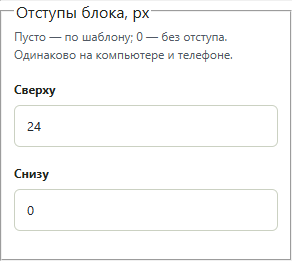
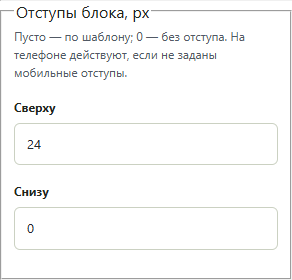
Add HASL section, responsive spacing and text links with section anchors

diff --git a/site-builder/builder.js b/site-builder/builder.js
@@ -4,9 +4,9 @@
   let projectId=null,revision=0,dirty=false,blocked=false,pending=null,epoch=0,selected=null,user=null,accountStamp='';
   accountStamp=document.querySelector('meta[name="editor-account-context"]')?.content||'';
   let pages=[],users=[],loadTicket=0,switching=false;
-  const labels=['Первый экран и акции','Витрина товаров','Подбор по параметрам','Коллекции','Доставка и преимущества','Отзывы','Блог','Сообщество','Вопросы и ответы','Выбор размера'];
+  const labels=['Первый экран и акции','Витрина товаров','Подбор по параметрам','Коллекции','Доставка и преимущества','Отзывы','Блог','Сообщество','Вопросы и ответы','Выбор размера','ХАСЛ'];
   const visibility={all:'На всех устройствах',desktop:'Только на компьютере',phone:'Только на телефоне',hidden:'Скрыт везде'};
-  const layout=()=>state.layout||(state.layout=meta.sections.filter(s=>!s.optional).map((s,i)=>({id:'block-'+i,source:s.id,name:labels[i]||s.name,visibility:'all'})));
+  const layout=()=>{if(!state.layout){state.layout=meta.sections.filter(s=>!s.optional).map((s,i)=>({id:'block-'+i,source:s.id,name:labels[Number(s.id.slice(1))]||s.name,visibility:'all'}));state.haslSectionVersion=1;}R.upgradeLayout(state);return state.layout;};
   const current=()=>layout().find(b=>b.id===selected);
   const id=()=>crypto.randomUUID();
   async function request(path,data){
@@ -60,13 +60,15 @@
     return `<h2>Блоки страницы</h2><p class="intro">Вставляйте секции из эталона, меняйте порядок и настройте каждую отдельно.</p><div class="site-insert" role="toolbar" aria-label="Вставка блоков">${meta.sections.map((s,i)=>`<button data-insert-section="${s.id}">${E(labels[i]||s.name)}</button>`).join('')}</div><ol class="site-structure" aria-label="Структура страницы">${items.map((b,i)=>`<li draggable="true" data-structure-id="${E(b.id)}" class="${b.id===selected?'selected':''} ${b.visibility==='hidden'?'is-hidden':''}"><span class="site-drag" aria-hidden="true">⠿</span><button type="button" data-select-block="${E(b.id)}" class="site-structure-name">${E(b.name)}</button><button type="button" data-toggle-block="${E(b.id)}" aria-label="${b.visibility==='hidden'?'Показать':'Скрыть'} ${E(b.name)}" aria-pressed="${b.visibility==='hidden'}" title="${b.visibility==='hidden'?'Вернуть в экспорт':'Скрыть и исключить из экспорта'}"><svg width="18" height="18" viewBox="0 0 24 24" fill="none" stroke="currentColor" stroke-width="1.7" aria-hidden="true"><path d="M2 12s4-7 10-7 10 7 10 7-4 7-10 7S2 12 2 12Z"/><circle cx="12" cy="12" r="3"/>${b.visibility==='hidden'?'<path d="m3 3 18 18"/>':''}</svg></button><button type="button" data-delete-block="${E(b.id)}" class="danger" aria-label="Удалить блок: ${E(b.name)}" title="Удалить блок"><svg width="18" height="18" viewBox="0 0 24 24" fill="none" stroke="currentColor" stroke-width="1.7" aria-hidden="true"><path d="M3 6h18M9 6V3h6v3M5 6l1 15h12l1-15M10 10v7M14 10v7"/></svg></button><button type="button" data-order-block="${E(b.id)}" data-direction="-1" aria-label="Выше: ${E(b.name)}" ${i===0?'disabled':''}>↑</button><button type="button" data-order-block="${E(b.id)}" data-direction="1" aria-label="Ниже: ${E(b.name)}" ${i===items.length-1?'disabled':''}>↓</button></li>`).join('')}</ol><p class="muted">Перетащите строку или используйте стрелки. Перечёркнутый глаз исключает блок из экспорта.</p><label class="field"><span>Блок на странице</span><select id="site-block-select">${items.map(b=>`<option value="${b.id}" ${b.id===selected?'selected':''}>${E(b.name)} · ${E(visibility[b.visibility]||visibility.all)}</option>`).join('')}</select></label>${!item?'<p>Страница пустая. Выберите блок в панели вставки.</p>':`
     <div class="row wrap"><button data-block-up ${items.indexOf(item)===0?'disabled':''}>Выше</button><button data-block-down ${items.indexOf(item)===items.length-1?'disabled':''}>Ниже</button><button data-block-copy>Дублировать</button><button data-block-delete class="danger">Удалить</button><button data-block-show>Показать блок</button></div>
     ${field('Название блока в конструкторе',item.name,'id="site-block-name" maxlength="120"','text')}
+    <label class="field"><span>Якорь секции (без #)</span><input id="site-block-anchor" value="${E(R.anchorFor(item))}" pattern="[a-zA-Z][a-zA-Z0-9_-]{0,79}" maxlength="80"><small>Для ссылки: #${E(R.anchorFor(item))}</small></label>
     <label class="field"><span>Видимость блока</span><select id="site-block-visibility">${Object.entries(visibility).map(([k,v])=>`<option value="${k}" ${item.visibility===k?'selected':''}>${v}</option>`).join('')}</select></label>
-    <details class="text-section"><summary>Оформление блока</summary>${field('Внутренние отступы сверху и снизу, px',item.spacing??32,'id="site-block-spacing" min="0" max="160"','number')}${field('Цвет фона',item.background||'#ffffff','id="site-block-background"','color')}${field('Цвет текста',item.color||'#202020','id="site-block-color"','color')}<button data-reset-appearance>Вернуть оформление эталона</button></details>
+    <details class="text-section"><summary>Оформление блока</summary>${field('Цвет фона',item.background||'#ffffff','id="site-block-background"','color')}${field('Цвет текста',item.color||'#202020','id="site-block-color"','color')}<button data-reset-appearance>Вернуть оформление эталона</button></details>
     ${productsSource?`<details class="text-section"><summary>Товары этого блока</summary>${field('Артикулы для этого экземпляра',item.products?.codes||'','id="instance-codes"')}<button data-instance-products>Применить товары к блоку</button><p class="muted">${item.source==='s0'?'Не более двух товаров.':'До 250 товаров.'} Фото или видео можно выбрать ниже после применения.</p>${(item.products?.missing||[]).length?`<p class="notice error">Не найдены: ${E(item.products.missing.join(', '))}</p>`:''}${(item.products?.resolved||[]).map(code=>{const p=products[code];return p?`<label class="field"><span>${E(p.name)}</span><select data-instance-photo="${E(code)}">${[...p.photos,...(p.videos||[])].map((url,i)=>`<option value="${E(url)}" ${item.products.photos?.[code]===url?'selected':''}>${i<p.photos.length?'Фото '+(i+1):'Видео '+(i-p.photos.length+1)}</option>`).join('')}</select></label>`:'';}).join('')}</details>`:''}
     ${['s5','s6'].includes(item.source)?field('Количество материалов в этом блоке',item.limit||6,'id="site-block-limit" min="1" max="30"','number'):''}
     ${item.source==='s1'?`<fieldset class="text-section"><legend>Сезонные плашки над товарами</legend><p class="muted">Выберите нужные фильтры или снимите все галочки.</p>${Object.entries({winter:'Зима',demi:'Демисезон',summer:'Лето'}).map(([key,label])=>`<label class="checkline"><input type="checkbox" data-season-tab="${key}" ${(item.seasons||[]).includes(key)?'checked':''}>${label}</label>`).join('')}</fieldset>`:''}
     ${item.source==='s8'?faqSettings(item):''}
-    <fieldset class="site-spacing"><legend>Отступы блока, px</legend><p class="muted">Пусто — по шаблону; 0 — без отступа. Одинаково на компьютере и телефоне.</p>${['top','bottom'].map(side=>`<label class="field"><span>${side==='top'?'Сверху':'Снизу'}</span><input type="number" min="0" max="400" step="1" data-block-spacing="${side}" placeholder="По шаблону" value="${item.spacing?.[side]??''}"></label>`).join('')}</fieldset>
+    <fieldset class="site-spacing"><legend>Отступы блока, px</legend><p class="muted">Пусто — по шаблону; 0 — без отступа. На телефоне действуют, если не заданы мобильные отступы.</p>${['top','bottom'].map(side=>`<label class="field"><span>${side==='top'?'Сверху':'Снизу'}</span><input type="number" min="0" max="400" step="1" data-block-spacing="${side}" placeholder="По шаблону" value="${item.spacing?.[side]??''}"></label>`).join('')}</fieldset>
+    <fieldset class="site-spacing-phone"><legend>Отступы на телефоне, px</legend><p class="muted">Пусто — основной отступ. 0 — убрать только на телефоне (ширина до 700 px).</p>${['top','bottom'].map(side=>`<label class="field"><span>${side==='top'?'Сверху на телефоне':'Снизу на телефоне'}</span><input type="number" min="0" max="400" step="1" data-block-spacing="${side}" data-spacing-phone="true" placeholder="Как основной" value="${item.spacingMobile?.[side]??''}"></label>`).join('')}</fieldset>
     <details class="text-section" open><summary>Тексты, ссылки и изображения</summary>${settingsFields(item)||'<p>Материалы этого блока настраиваются в разделе «Отзывы» или «Блог».</p>'}</details>`}`;
   }
   function renderAccess(){
@@ -75,8 +77,38 @@
     return '<h2>Доступ редакторов</h2><p class="intro">Администраторы и модераторы имеют доступ всегда. Разрешение редактора можно выдать или отозвать здесь. Блокировка аккаунта имеет приоритет.</p><div id="site-access-list" role="status">Загрузка…</div>';
   }
   let editingFrame=null,mirrorTimer;
+  function readTextLinks(node){
+    const links=[];for(const a of node.querySelectorAll('a[href]')){a.classList.add('site-inline-link');const r=node.ownerDocument.createRange();r.selectNodeContents(node);r.setEndBefore(a);const start=r.toString().length;links.push({start,end:start+a.textContent.length,href:a.getAttribute('href')});}return {text:node.textContent,links};
+  }
+  let linkSelection=null;
+  const linkButton=document.createElement('button');linkButton.type='button';linkButton.id='site-text-link';linkButton.textContent='Ссылка';linkButton.title='Выделите текст в превью · Ctrl+K';document.querySelector('.preview-toolbar').append(linkButton);
+  const linkDialog=document.createElement('dialog');linkDialog.id='site-link-dialog';linkDialog.innerHTML='<form><div class="dialog-head"><h2>Ссылка в тексте</h2><button type="button" data-link-close>Закрыть</button></div><label class="field">Адрес или якорь<input name="href" required placeholder="https://example.com или #section"></label><label class="field">Секция страницы<select name="section"><option value="">Выбрать секцию…</option></select></label><p data-link-error role="status"></p><button type="submit">Применить</button> <button type="button" data-link-remove>Убрать ссылку</button></form>';document.body.append(linkDialog);
+  function openTextLink(){
+    const saved=linkSelection;if(!saved||saved.epoch!==epoch||!saved.node.isConnected||saved.node.textContent!==saved.text){notify('Выделите текст внутри одного поля в превью.');return;}
+    if(saved.node.closest('button')){notify('Внутри кнопки ссылка недоступна. Выберите обычный текст.');return;}
+    const select=linkDialog.querySelector('[name=section]');select.innerHTML='<option value="">Выбрать секцию…</option>'+layout().filter(b=>b.visibility!=='hidden').map(b=>'<option value="#'+E(R.anchorFor(b))+'">'+E(b.name)+'</option>').join('');
+    const n=saved.range.startContainer.parentElement,a=n?.closest('a');linkDialog.querySelector('[name=href]').value=a?.getAttribute('href')||'';linkDialog.querySelector('[data-link-error]').textContent='';linkDialog.showModal();linkDialog.querySelector('[name=href]').focus();
+  }
+  linkButton.addEventListener('mousedown',e=>e.preventDefault());linkButton.onclick=openTextLink;
+  linkDialog.querySelector('[data-link-close]').onclick=()=>linkDialog.close();
+  linkDialog.querySelector('[name=section]').onchange=e=>{if(e.target.value)linkDialog.querySelector('[name=href]').value=e.target.value;};
+  function insertTextLink(remove=false){
+    const saved=linkSelection,error=linkDialog.querySelector('[data-link-error]');if(!saved||saved.epoch!==epoch||!saved.node.isConnected||saved.node.textContent!==saved.text){error.textContent='Текст изменился. Закройте окно и выделите его снова.';return;}
+    const href=linkDialog.querySelector('[name=href]').value.trim();if(!remove&&!/^(https?:\/\/[^\s]+|#[a-zA-Z][\w-]*)$/.test(href)){error.textContent='Укажите http(s)-адрес или #якорь.';return;}
+    if(!remove&&href.startsWith('#')&&!layout().some(b=>R.anchorFor(b)===href.slice(1)&&b.visibility!=='hidden')){error.textContent='Такой видимый якорь секции не найден.';return;}
+    const node=saved.node,doc=node.ownerDocument,outer=node.closest('a[data-editor-link]');
+    node.focus();const selection=doc.getSelection();selection.removeAllRanges();selection.addRange(saved.range);
+    if(outer){const item=layout().find(b=>b.id===node.closest('[data-site-block]').dataset.siteBlock);(item.links||={})[outer.dataset.editorLink]=remove?'':href;outer.setAttribute('href',remove?'':href);changed();}
+    else{node.contentEditable='true';try{doc.execCommand(remove?'unlink':'createLink',false,remove?null:href);}finally{node.contentEditable='plaintext-only';}node.dispatchEvent(new Event('input',{bubbles:true}));}
+    linkDialog.close();linkSelection=null;
+  }
+  linkDialog.querySelector('form').onsubmit=e=>{e.preventDefault();insertTextLink();};linkDialog.querySelector('[data-link-remove]').onclick=()=>insertTextLink(true);
+
   function bindPreview(frame){
     const doc=frame.contentDocument;
+    doc.addEventListener('selectionchange',()=>{const selection=doc.getSelection();if(!selection?.rangeCount||selection.isCollapsed)return;const range=selection.getRangeAt(0),node=(range.startContainer.nodeType===1?range.startContainer:range.startContainer.parentElement).closest('[data-editor-text]');if(node&&node.contains(range.endContainer))linkSelection={node,range:range.cloneRange(),text:node.textContent,epoch};else linkSelection=null;});
+    doc.addEventListener('keydown',e=>{if((e.ctrlKey||e.metaKey)&&e.key.toLowerCase()==='k'){e.preventDefault();openTextLink();}});
+
     const style=doc.createElement('style');style.textContent='[data-editor-text]{cursor:text}[data-editor-text]:hover{outline:1px dashed #527000;outline-offset:3px}[data-editor-text]:focus{outline:2px solid #527000;outline-offset:3px;min-width:1ch}';doc.head.append(style);
     doc.querySelectorAll('[data-editor-text]').forEach(node=>{
       node.contentEditable='plaintext-only';node.setAttribute('role','textbox');node.setAttribute('aria-label','Редактировать текст: '+node.textContent.trim().slice(0,65));node.spellcheck=true;
@@ -85,14 +117,15 @@
       node.addEventListener('paste',e=>{e.preventDefault();const value=e.clipboardData.getData('text/plain');doc.execCommand('insertText',false,value);});
       node.addEventListener('input',()=>{
         const item=layout().find(b=>b.id===node.closest('[data-site-block]')?.dataset.siteBlock);if(!item)return;
-        const key=node.dataset.editorText,value=node.innerText;
+        const key=node.dataset.editorText,value=node.textContent;
+        (item.inlineLinks||={})[key]=readTextLinks(node);
         const faq=item.faq?.find(f=>key==='faq-'+f.id+'-question'||key==='faq-'+f.id+'-answer');
         if(faq){const field=key.endsWith('-question')?'question':'answer';faq[field]=value;const input=document.querySelector(`[data-faq-index="${item.faq.indexOf(faq)}"][data-faq-field="${field}"]`);if(input&&selected===item.id)input.value=value;}else (item.texts||={})[key]=value;
         markChanged();
         const input=document.querySelector('[data-instance-kind="text"][data-field-id="'+key+'"]');if(input&&selected===item.id)input.value=value;
         clearTimeout(mirrorTimer);mirrorTimer=setTimeout(()=>{
           const other=document.getElementById(frame.id==='desktop'?'phone':'desktop'),otherDoc=other.contentDocument;
-          const target=otherDoc?.querySelector('[data-site-block="'+item.id+'"] [data-editor-text="'+key+'"]');if(target)target.textContent=value;
+          const target=otherDoc?.querySelector('[data-site-block="'+item.id+'"] [data-editor-text="'+key+'"]');if(target){target.textContent=value;R.applyTextLinks(target,item.inlineLinks?.[key]);}
         },120);
       });
       node.addEventListener('blur',()=>{if(editingFrame===frame)editingFrame=null;});
@@ -130,7 +163,7 @@
       if(button.hasAttribute('data-copy-page'))return await saveCopy();
       if(button.hasAttribute('data-save-page'))return await save();
       if(button.dataset.openPage)return await openProject(button.dataset.openPage);
-      if(button.dataset.insertSection){if(layout().length>=60)throw new Error('Максимум 60 блоков на странице.');const source=button.dataset.insertSection;const item={id:id(),source,name:labels[Number(source.slice(1))],visibility:'all'};layout().splice(selected?layout().findIndex(b=>b.id===selected)+1:layout().length,0,item);selected=item.id;changed();render();return;}
+      if(button.dataset.insertSection){if(layout().length>=120)throw new Error('Максимум 120 блоков на странице.');const source=button.dataset.insertSection;const item={id:id(),source,name:labels[Number(source.slice(1))],visibility:'all'};layout().splice(selected?layout().findIndex(b=>b.id===selected)+1:layout().length,0,item);selected=item.id;changed();render();return;}
       if(button.dataset.selectBlock){selected=button.dataset.selectBlock;render();return;}
       if(button.dataset.deleteBlock){const i=layout().findIndex(b=>b.id===button.dataset.deleteBlock);if(i<0)return;const [removed]=state.layout.splice(i,1);if(selected===removed.id)selected=state.layout[Math.min(i,state.layout.length-1)]?.id;changed();render();return;}
       if(button.dataset.toggleBlock){const b=layout().find(x=>x.id===button.dataset.toggleBlock);if(b){b.visibility=b.visibility==='hidden'?'all':'hidden';changed();render();}return;}
@@ -145,9 +178,9 @@
       }
       if(button.hasAttribute('data-block-show')){jump('[data-site-block="'+item.id+'"]');return;}
       if(button.hasAttribute('data-block-delete')){state.layout=layout().filter(b=>b!==item);selected=state.layout[0]?.id;}
-      else if(button.hasAttribute('data-block-copy')){if(layout().length>=60)throw new Error('Максимум 60 блоков.');const copy=structuredClone(item);copy.id=id();copy.name+=' — копия';layout().splice(layout().indexOf(item)+1,0,copy);selected=copy.id;}
+      else if(button.hasAttribute('data-block-copy')){if(layout().length>=120)throw new Error('Максимум 120 блоков.');const copy=structuredClone(item);copy.id=id();copy.name+=' — копия';layout().splice(layout().indexOf(item)+1,0,copy);selected=copy.id;}
       else if(button.hasAttribute('data-block-up')||button.hasAttribute('data-block-down')){const i=layout().indexOf(item),j=i+(button.hasAttribute('data-block-up')?-1:1);if(j>=0&&j<layout().length)[state.layout[i],state.layout[j]]=[state.layout[j],state.layout[i]];}
-      else if(button.hasAttribute('data-reset-appearance')){delete item.color;delete item.background;delete item.spacing;}
+      else if(button.hasAttribute('data-reset-appearance')){delete item.color;delete item.background;delete item.spacing;delete item.spacingMobile;}
       else if(button.hasAttribute('data-instance-products')){
         const codes=$('#instance-codes').value,parts=[...new Set(codes.split(/[,;\s]+/).filter(Boolean))];if(parts.length>(item.source==='s0'?2:250))throw new Error('Слишком много артикулов для этого блока.');
         const ticket=epoch;button.disabled=true;const result=await api('products?codes='+encodeURIComponent(parts.join(',')));if(ticket!==epoch||!layout().includes(item))return;result.products.forEach(p=>products[p.code]=p);item.products={codes:parts.join(', '),resolved:result.products.map(p=>p.code),missing:result.missing,photos:item.products?.photos||{}};
@@ -165,7 +198,6 @@
     if(el.dataset.faqField){item.faq||=R.faqDefaults(state,item);const f=item.faq[Number(el.dataset.faqIndex)];if(!f)return;f[el.dataset.faqField]=el.value;}
     else if(el.dataset.instanceKind){(item[el.dataset.instanceKind+'s']||={})[el.dataset.fieldId]=el.value;}
     else if(el.id==='site-block-name')item.name=el.value;
-    else if(el.id==='site-block-spacing')item.spacing=Math.max(0,Math.min(160,Number(el.value)||0));
     else if(el.id==='site-block-limit')item.limit=Math.max(1,Math.min(30,Number(el.value)||1));
     else if(el.id==='site-block-background')item.background=el.value;
     else if(el.id==='site-block-color')item.color=el.value;
@@ -176,7 +208,8 @@
     const el=event.target;try{
       if(el.id==='site-block-select'){selected=el.value;render();}
       if(el.dataset.seasonTab){const item=current();if(!item)return;const choices=new Set(item.seasons||[]);if(el.checked)choices.add(el.dataset.seasonTab);else choices.delete(el.dataset.seasonTab);item.seasons=[...choices];changed();return;}
-      if(el.dataset.blockSpacing){if(!el.checkValidity()){el.reportValidity();return;}const item=current();item.spacing||={};if(el.value==='')delete item.spacing[el.dataset.blockSpacing];else item.spacing[el.dataset.blockSpacing]=Number(el.value);changed();}
+      if(el.dataset.blockSpacing){if(!el.checkValidity()){el.reportValidity();return;}const item=current(),key=el.dataset.spacingPhone?'spacingMobile':'spacing';item[key]||={};if(el.value==='')delete item[key][el.dataset.blockSpacing];else item[key][el.dataset.blockSpacing]=Number(el.value);changed();}
+      if(el.id==='site-block-anchor'){const item=current(),old=R.anchorFor(item),value=el.value.trim();if(!/^[a-zA-Z][a-zA-Z0-9_-]{0,79}$/.test(value)||layout().some(b=>b!==item&&R.anchorFor(b)===value)){el.value=old;notify('Якорь: уникальное имя латиницей, цифры, дефис или подчёркивание.');return;}item.anchor=value;const replace=o=>{if(!o||typeof o!=='object')return;for(const key of Object.keys(o)){if(o[key]==='#'+old)o[key]='#'+value;else if(typeof o[key]==='object')replace(o[key]);}};replace(state.links);for(const b of layout()){replace(b.links);for(const r of Object.values(b.inlineLinks||{}))for(const l of r.links||[])if(l.href==='#'+old)l.href='#'+value;for(const f of b.faq||[])if(f.url==='#'+old)f.url='#'+value;}changed();render();}
       if(el.id==='site-block-visibility'){current().visibility=el.value;changed();}
       if(el.dataset.instancePhoto){current().products.photos[el.dataset.instancePhoto]=el.value;changed();}
       if(el.dataset.siteAccess){el.disabled=true;try{await request('site-builder/access/'+el.dataset.siteAccess,{allowed:el.checked});notify('Право доступа обновлено.');}catch(error){el.checked=!el.checked;throw error;}finally{el.disabled=false;}}

diff --git a/site-builder/renderer.js b/site-builder/renderer.js
@@ -55,12 +55,36 @@ window.HaslRenderer = (() => {
     doc.querySelectorAll('.faq-q > span:not([data-editor-text])').forEach(s=>{s.classList.add('faq-sign');s.setAttribute('aria-hidden','true');});
     doc.querySelector('.finder-form')?.insertAdjacentHTML('afterbegin','<div class="field gender-field"><label for="hasl-embed-fGender">Пол</label><select class="finder-gender" id="hasl-embed-fGender"><option value="">Любой</option><option value="zhenskie">Женский</option><option value="muzhskie">Мужской</option></select></div>');
     doc.querySelectorAll('script').forEach(s=>s.remove());
+    // Split after indexing text so existing saved text IDs stay stable.
+    const closing=doc.querySelector('.closing-word');
+    if(closing){const sector=doc.createElement('section');sector.className='section hasl-brand-section';sector.dataset.editorSection='s10';closing.removeAttribute('aria-hidden');closing.style.margin='0';sector.append(closing);doc.querySelector('main').append(sector);sections.push({id:'s10',optional:false,name:'ХАСЛ'});for(const f of fields)if(closing.querySelector('[data-editor-text="'+f.id+'"]'))f.section='s10';}
     template = '<!doctype html>\n'+doc.documentElement.outerHTML;
     return {fields, links, pictures, sections, blocks: {
       catalog: [...doc.querySelectorAll('.product-track .product')].map(x => x.dataset.feedId).join(', '),
       collections: [...doc.querySelectorAll('.collection-card')].map(x => x.dataset.feedId).join(', '),
       promos: ''
     }};
+  }
+  const anchorFor=item=>item.anchor||'section-'+item.id;
+  function applyTextLinks(node,record){
+    if(!record || record.text!==node.textContent || !Array.isArray(record.links) || node.closest('a,button'))return;
+    const text=node.textContent,doc=node.ownerDocument,fragment=doc.createDocumentFragment();let cursor=0;
+    for(const link of record.links){if(!Number.isInteger(link.start)||!Number.isInteger(link.end)||link.start<cursor||link.end<=link.start||link.end>text.length)continue;
+      const href=/^#[a-zA-Z][\w-]*$/.test(link.href)?link.href:safe(link.href);if(!href)continue;
+      fragment.append(doc.createTextNode(text.slice(cursor,link.start)));const a=doc.createElement('a');a.href=href;a.className='site-inline-link';a.textContent=text.slice(link.start,link.end);fragment.append(a);cursor=link.end;
+    }fragment.append(doc.createTextNode(text.slice(cursor)));node.replaceChildren(fragment);
+  }
+  function upgradeLayout(state){
+    for(const item of state.layout||[])if(Number.isFinite(item.spacing))item.spacing={top:Math.max(0,Math.min(160,item.spacing)),bottom:Math.max(0,Math.min(160,item.spacing))};
+    if(state.haslSectionVersion===1 || !Array.isArray(state.layout))return;
+    if(!state.layout.some(b=>b.source==='s10')){
+      const next=[];const ids=new Set(state.layout.map(b=>b.id));
+      for(const item of state.layout){next.push(item);if(item.source==='s8'){
+        let id=item.id.slice(0,50)+'-hasl',n=1;while(ids.has(id))id=item.id.slice(0,50)+'-hasl-'+n++;ids.add(id);
+        const texts={};for(const f of fields.filter(f=>f.section==='s10'))if(item.texts?.[f.id]!==undefined)texts[f.id]=item.texts[f.id];
+        next.push({id,source:'s10',name:'ХАСЛ',visibility:item.visibility||'all',texts,inlineLinks:Object.fromEntries(Object.entries(item.inlineLinks||{}).filter(([key])=>fields.some(f=>f.id===key&&f.section==='s10')))});
+      }}state.layout=next;
+    }state.haslSectionVersion=1;
   }
   function routeLinks(root, target) {
     const hosts = ['xn--80awro.xn--p1ai', 'хасл.рф', 'haslestore.com', 'www.haslestore.com'];
@@ -88,6 +112,7 @@ window.HaslRenderer = (() => {
     }));
   }
   function build(state, products, content, options = {}) {
+    upgradeLayout(state);
     const doc = new DOMParser().parseFromString(template, 'text/html'), root = doc.querySelector('.hasl-home-embed');
     for(const [id,value] of Object.entries(state.texts || {})) { const el = doc.querySelector(`[data-editor-text="${id}"]`); if(el) el.textContent=value; }
     for(const [id,value] of Object.entries(state.links || {})) { const el = doc.querySelector(`[data-editor-link="${id}"]`); if(el) el.setAttribute('href',value.startsWith('#') ? value : safe(value)); }
@@ -116,10 +141,13 @@ window.HaslRenderer = (() => {
         const source=originals.get(item.source);if(!source||(options.clean&&item.visibility==='hidden'))continue;
         const node=source.cloneNode(true);node.dataset.siteBlock=item.id;
         node.dataset.visibility=item.visibility||'all';
-        for(const side of ['top','bottom']){const value=item.spacing?.[side];if(Number.isInteger(value)&&value>=0&&value<=400)node.style.setProperty('padding-'+side,value+'px','important');}
+        const spacingCss=values=>['top','bottom'].map(side=>{const value=values?.[side];return Number.isInteger(value)&&value>=0&&value<=400?'padding-'+side+':'+value+'px!important;':'';}).join('');
+        const desktopSpacing=spacingCss(item.spacing),phoneSpacing=spacingCss(item.spacingMobile);
+        if(desktopSpacing||phoneSpacing){const style=doc.createElement('style'),selector='.hasl-home-embed [data-site-block="'+CSS.escape(item.id)+'"]';style.textContent=(desktopSpacing?selector+'{'+desktopSpacing+'}':'')+(phoneSpacing?'@container(max-width:700px){'+selector+'{'+phoneSpacing+'}}':'');node.append(style);}
+
         for(const kind of ['text','link','image']) for(const el of node.querySelectorAll('[data-editor-'+kind+']')) {
           const value=item[kind+'s']?.[el.getAttribute('data-editor-'+kind)];if(value===undefined)continue;
-          if(kind==='text')el.textContent=value;else el.setAttribute(kind==='link'?'href':'src',kind==='link'&&value.startsWith('#')?value:safe(value));
+          if(kind==='text')el.textContent=value;else if(kind==='link'&&value==='')el.removeAttribute('href');else el.setAttribute(kind==='link'?'href':'src',kind==='link'&&value.startsWith('#')?value:safe(value));
         }
         if(Array.isArray(item.faq)&&node.querySelector('.faq'))node.querySelector('.faq').innerHTML=item.faq.map(f=>`<div class="faq-item"><button class="faq-q" type="button"><span data-editor-text="faq-${esc(f.id)}-question">${esc(f.question)}</span><span class="faq-sign" aria-hidden="true">+</span></button><div class="faq-a"><span data-editor-text="faq-${esc(f.id)}-answer">${esc(f.answer)}</span>${f.url?` <a href="${esc(safe(f.url))}">${esc(f.linkText||'Подробнее')}</a>`:''}</div></div>`).join('');
         if(item.products) {
@@ -142,6 +170,8 @@ window.HaslRenderer = (() => {
         if(/^#[0-9a-f]{6}$/i.test(item.background||''))node.style.backgroundColor=item.background;
         if(/^#[0-9a-f]{6}$/i.test(item.color||''))node.style.color=item.color;
         if(Number.isFinite(item.spacing))node.style.paddingBlock=Math.max(0,Math.min(160,item.spacing))+'px';
+        for(const el of node.querySelectorAll('[data-editor-text]'))applyTextLinks(el,item.inlineLinks?.[el.dataset.editorText]);
+        const anchor=doc.createElement('span');anchor.id=anchorFor(item);anchor.className='site-section-anchor';anchor.style.cssText='display:block;scroll-margin-top:100px';node.prepend(anchor);
         output.push(node);
       }
       main.replaceChildren(...output);
@@ -158,7 +188,7 @@ window.HaslRenderer = (() => {
     bootstrap.textContent = `(()=>{const root=document.currentScript.closest('.hasl-home-embed');const target=${options.site === 'both' ? "['haslestore.com','www.haslestore.com'].includes(location.hostname)?'https://haslestore.com':['xn--80awro.xn--p1ai','www.xn--80awro.xn--p1ai'].includes(location.hostname)?'https://xn--80awro.xn--p1ai':'https://xn--80awro.xn--p1ai'" : JSON.stringify(target)};(${routeLinks.toString()})(root,target)})();`;
     root.insertBefore(bootstrap,root.querySelector('script'));
     const style = doc.createElement('style');
-    style.textContent = '.hasl-home-embed .article h3{font-size:clamp(18px,2cqw,26px);line-height:1.22;overflow-wrap:anywhere}.hasl-home-embed .review-text{white-space:pre-line}.hasl-home-embed [data-editor-text]{white-space:pre-line}';
+    style.textContent = '.hasl-home-embed .site-inline-link{text-decoration:underline;text-underline-offset:.18em}.hasl-home-embed .article h3{font-size:clamp(18px,2cqw,26px);line-height:1.22;overflow-wrap:anywhere}.hasl-home-embed .review-text{white-space:pre-line}.hasl-home-embed [data-editor-text]{white-space:pre-line}';
     style.textContent += '.hasl-home-embed [data-visibility=hidden]{display:none!important}@media(max-width:767px){.hasl-home-embed [data-visibility=desktop]{display:none!important}}@media(min-width:768px){.hasl-home-embed [data-visibility=phone]{display:none!important}}';
     root.append(style);
     if(options.clean) doc.querySelectorAll('*').forEach(el=> [...el.attributes].filter(a=>a.name.startsWith('data-editor-')).forEach(a=>el.removeAttribute(a.name)));
@@ -179,5 +209,5 @@ window.HaslRenderer = (() => {
     for(const el of section.querySelectorAll('[data-editor-link]')){const key=el.dataset.editorLink;el.setAttribute('href',item.links?.[key]??state.links?.[key]??el.getAttribute('href'));}
     return [...section.querySelectorAll('.faq-item')].map((n,i)=>{const q=n.querySelector('.faq-q').cloneNode(true),a=n.querySelector('.faq-a').cloneNode(true),link=a.querySelector('a');q.querySelector('.faq-sign')?.remove();const url=link?.getAttribute('href')||'',linkText=link?.textContent||'';link?.remove();return {id:'default'+i,question:q.textContent.trim(),answer:a.textContent.trim().replace(/\s+\.$/,''),url,linkText};});
   }
-  return {init,build,selectItems,esc,safe,optimized,faqDefaults};
+  return {init,build,upgradeLayout,anchorFor,applyTextLinks,selectItems,esc,safe,optimized,faqDefaults};
 })();

diff --git a/site_builder.py b/site_builder.py
@@ -50,18 +50,33 @@ def validate_project(data):
         if not isinstance(c.get('overrides'), dict):
             raise ValueError('Повреждены настройки материалов')
     layout = data.get('layout', [])
-    if not isinstance(layout, list) or len(layout) > 60:
-        raise ValueError('Допускается до 60 блоков')
+    if not isinstance(layout, list) or len(layout) > 120:
+        raise ValueError('Допускается до 120 блоков')
     ids = set()
+    anchors = set()
     for item in layout:
         if (not isinstance(item, dict) or not re.fullmatch(r'[a-zA-Z0-9_-]{1,70}', str(item.get('id', '')))
-                or item['id'] in ids or not re.fullmatch(r's[0-9]', str(item.get('source', '')))
+                or item['id'] in ids or not re.fullmatch(r's(?:[0-9]|10)', str(item.get('source', '')))
                 or item.get('visibility', 'all') not in ('all', 'desktop', 'phone', 'hidden')):
             raise ValueError('Повреждена структура блоков')
         ids.add(item['id'])
-        spacing = item.get('spacing', {})
-        if not isinstance(spacing, dict) or any(key not in ('top', 'bottom') or type(value) is not int or not 0 <= value <= 400 for key, value in spacing.items()):
-            raise ValueError('Отступы блока: целое число от 0 до 400 px')
+        anchor=item.get('anchor') or 'section-'+item['id']
+        if not isinstance(anchor,str) or not re.fullmatch(r'[a-zA-Z][a-zA-Z0-9_-]{0,79}',anchor) or anchor in anchors:
+            raise ValueError('Якоря секций должны быть уникальными')
+        anchors.add(anchor)
+        inline=item.get('inlineLinks',{})
+        if not isinstance(inline,dict) or len(inline)>500:
+            raise ValueError('Повреждены ссылки в тексте')
+        for record in inline.values():
+            if not isinstance(record,dict) or not isinstance(record.get('text'),str) or not isinstance(record.get('links'),list) or len(record['links'])>100:
+                raise ValueError('Повреждены ссылки в тексте')
+            for link in record['links']:
+                if not isinstance(link,dict) or type(link.get('start')) is not int or type(link.get('end')) is not int or not 0 <= link['start'] < link['end'] or not isinstance(link.get('href'),str) or not re.fullmatch(r'(?:https?://[^\s]+|#[a-zA-Z][\w-]*)',link['href']):
+                    raise ValueError('Некорректная ссылка в тексте')
+        for field in ('spacing', 'spacingMobile'):
+            spacing = item.get(field, {})
+            if not isinstance(spacing, dict) or any(key not in ('top', 'bottom') or type(value) is not int or not 0 <= value <= 400 for key, value in spacing.items()):
+                raise ValueError('Отступы блока: целое число от 0 до 400 px')
         if 'faq' in item:
             faq = item['faq']
             if not isinstance(faq, list) or len(faq) > 30:

diff --git a/test_site_builder.py b/test_site_builder.py
@@ -87,12 +87,31 @@ class SiteBuilderTests(unittest.TestCase):
         self.assertEqual(json.dumps(self.client.get('/api/site-builder/reference',headers=self.auth).json,sort_keys=True),original)
         self.assertEqual(self.client.post('/api/site-builder/reference',json=reference,headers=self.auth).status_code,405)
 
+    def test_section_links_validation(self):
+        from site_builder import validate_project
+        data=self.client.get('/api/site-builder/reference',headers=self.auth).json
+        item={'id':'links','source':'s10','anchor':'my-section','inlineLinks':{'t1':{'text':'hello','links':[{'start':0,'end':5,'href':'https://example.com'}]}}}
+        data['layout']=[item]
+        validate_project(data)
+        item['inlineLinks']['t1']['links'][0]['href']='javascript:alert(1)'
+        with self.assertRaises(ValueError): validate_project(data)
+        item['inlineLinks']={}
+        data['layout'].append({'id':'other','source':'s1','anchor':'my-section'})
+        with self.assertRaises(ValueError): validate_project(data)
+
     def test_section_spacing_validation(self):
         from site_builder import validate_project
         data=self.client.get('/api/site-builder/reference',headers=self.auth).json
         item={'id':'spacing','source':'s1','spacing':{'top':0,'bottom':400}}
         data['layout']=[item]
         validate_project(data)
+        item['source']='s10'
+        item['spacingMobile']={'top':8,'bottom':0}
+        validate_project(data)
+        item['spacingMobile']={'top':-1}
+        with self.assertRaises(ValueError):
+            validate_project(data)
+        item['spacingMobile']={}
         for bad in [-1,401,1.5,True,'20']:
             item['spacing']['top']=bad
             with self.assertRaises(ValueError):

diff --git a/docs/WORDCRAFT_QA_2026-10-10.md b/docs/WORDCRAFT_QA_2026-10-10.md
@@ -1278,3 +1278,15 @@ outmax-vps-patch.zip: 5238819 байт; SHA-256 333806eceff296d05d54f995f10d4b7f
 - PASS: site-spacing-check — ПК/телефон, 24/0, экспорт, сохранение/перезагрузка и сброс; instructions-capture CAPTURE_SITE_SPACING; instructions-check — поиск, ссылка, навигация, 4 ширины. Скриншот site-block-spacing.png проверен визуально.
 - PASS: полный/совместимый пакеты, браузерный spacing + instructions на совместимом пакете, live поля/инструкция/скриншот без изменения проектов.
 - DEPLOY_OK 2026-10-23T02:46:36+00:00, SHA256 d592cd9c04a70640c0c3ca847b726c779e3e7f5fc1d5eea444134132bde36d7a. Rollback: release/site-spacing-rollback-20261023.
+
+## 2026-10-23 — Отдельный ХАСЛ и мобильные отступы
+- Надпись перенесена в s10 после индексации текста, прежние IDs не изменены. Старые layout разделяются однократно с сохранением текста/видимости; удаление сохраняется.
+- spacingMobile задаёт верх/низ до 700 px контейнера; пусто наследует основной padding. Оба набора проверяются сервером.
+- PASS: site-hasl-section-check (миграция, текст/видимость, повтор, удаление/сохранение/открытие, вставка); site-spacing-check (ПК 24/0 и телефон 8/16), instructions-capture, instructions-check, Python validation.
+
+### Ссылки по выделению и якоря
+- Добавлены «Ссылка»/Ctrl+K, безопасные URL и выбор секции, удаление ссылки. Диапазоны ссылок привязаны к тексту, HTML проекта не исполняется; устаревшее выделение отклоняется. В существующей ссылке меняется её адрес, в кнопках вложенные ссылки не создаются.
+- Якоря уникальны, переименование обновляет сохранённые ссылки; ссылки и якоря сохраняются в экспорте.
+- PASS: site-text-links-check — selection, Ctrl+K, URL, unsafe scheme reject, unlink, выбор секции, переименование, save/reload/export/click; test_site_builder — 7 тестов. Скриншот диалога проверен.
+- PASS: полный и совместимый серверные пакеты; все 3 браузерных сценария + instructions-check на совместимом пакете; read-only live поля/кнопка/якорь/инструкция/скриншоты.
+- DEPLOY_OK 2026-10-23T03:22:32+00:00, SHA256 46972ce36251bbc7c71fef7c176129c66226b35d737c7ec9123f4d3cbea686c7, 5049526 bytes. Предыдущий серверный пакет: release/site-hasl-mobile-rollback-20261023.

diff --git a/CHANGELOG.md b/CHANGELOG.md
@@ -1,3 +1,16 @@
+## 2026-10-23 — Ссылки по выделению и якоря секций
+
+- Инструмент «Ссылка» и Ctrl+K добавляют URL или переход к секции по выделенному тексту. Ссылки сохраняются в проекте и экспорте.
+- У каждой секции собственный якорь; переименование обновляет связанные переходы.
+
+## 2026-10-23 — Мобильные отступы
+
+- Верхний и нижний отступ на телефоне настраиваются отдельно для каждой секции. Пустое поле наследует основной отступ, 0 убирает его только на телефоне.
+
+## 2026-10-23 — Отдельная секция «ХАСЛ»
+
+- Нижняя надпись выделена из вопросов и ответов: отдельные текст, порядок, видимость, удаление и отступы. Старые проекты автоматически разделяются с сохранением текста и видимости.
+
 ## 2026-10-23 — Отступы секций конструктора
 
 - В каждой секции можно независимо задать верхний и нижний отступ от 0 до 400 px. Пустое значение возвращает шаблон. Настройки сохраняются и работают в превью и экспорте.
